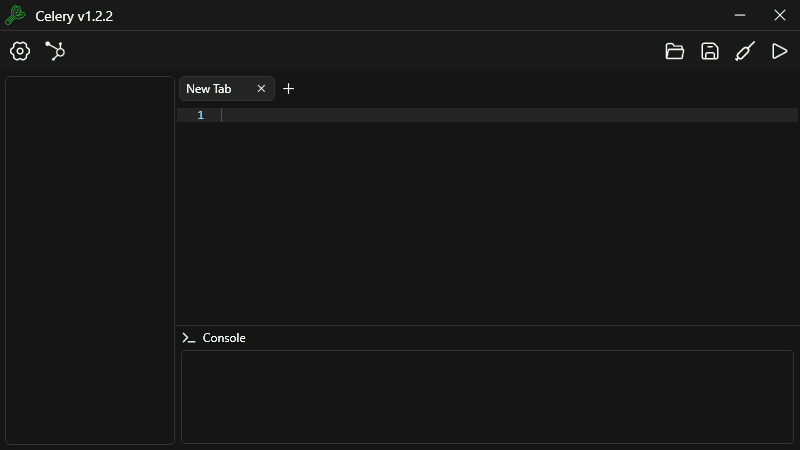
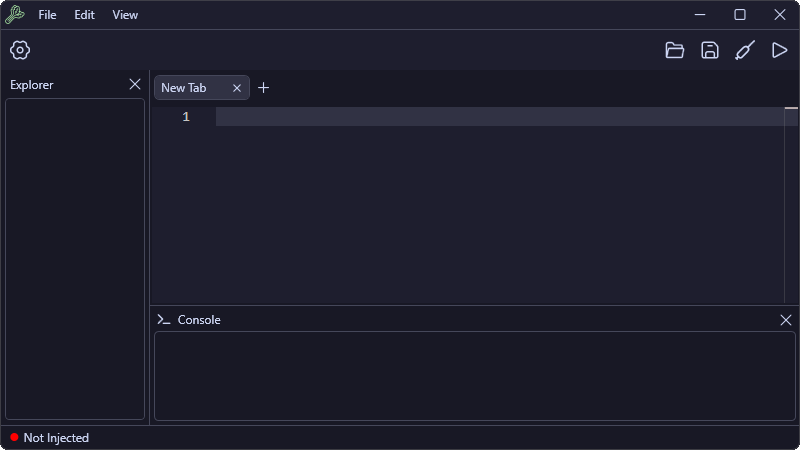
Changed README.md

diff --git a/README.md b/README.md
@@ -18,58 +18,23 @@
 * Download the [latest release](https://github.com/sten-code/Celery/releases/latest) and extract it to a folder with [WinRar](https://win-rar.com) or any other unzip program.
 * Run `Celery.exe`
 
-<h1 align="center">Getting Started</h1>
-
-* Open [Roblox](https://www.microsoft.com/store/productId/9NBLGGGZM6WM) from the Microsoft Store and join a game. 
-    * Make sure you aren't using the web version as it's not supported by Celery.
-* Click the inject button, its an icon that looks like a syringe.
-* Wait a couple of seconds and it should say "Celery Loaded" in the top left of Roblox
-    * If it doesn't, there might be an issue with your antivirus.
-* Search for a script that is fitted for the game you are currently in and paste the script inside the text box within Celery.
-    * Please use reputable scripts, it's possible to get hacked yourself if you aren't careful with what you do.
-* Click the execute button which is a play icon.
-
-<h1 align="center">Settings</h1>
-
-## Topmost
-Enabling Topmost allows Celery to be on top of all other programs, it can only be minimized by pressing the minimize button.
-
-## Auto Attach
-Auto Attach will inject Celery the moment you open Roblox or Celery itself.
-
-## Startup Animation
-If enabled there will be an animation of 3.5 seconds when you start Celery.
-
-## Debugging Mode
-Debugging Mode will give you way more information inside the console.
-
-## Theme
-The current theme that is applied, click [here](#themetutorial) if you want to create your own theme.
-
-## Save Tabs
-If enabled, the tabs will save when Celery is closed, is restarted after changing themes and every x amount of seconds where x is the amount set by the Save Tabs Delay setting.
-
-## Save Tabs Delay
-The delay between each save of the tabs.
-
-
 <a name="themetutorial"></a><h1 align="center">Create your own theme</h1>
 
 - Go to `%appdata%\Celery\Themes`, you can do this by pressing `Windows Key + R` and typing `%appdata%\Celery\Themes`
-- Create a new file and name it whatever you want but make sure you have the file extension as `.xaml`
+- Create a new file and n ame it whateveryou want but make sure you have the file extension as `.xaml`
   - To set the file extension you will have to click on `View` at the top bar of file explorer and enable `File name extensions`. After that you can create a file and it will allow you to change the file extension.
 - Open the file with notepad or any other text editor of you liking and paste the following text:
 ```xaml
 <ResourceDictionary xmlns="http://schemas.microsoft.com/winfx/2006/xaml/presentation"
                     xmlns:x="http://schemas.microsoft.com/winfx/2006/xaml">
-    <Color x:Key="BackgroundColor">#151515</Color>
-    <Color x:Key="LightBackgroundColor">#191919</Color>
-    <Color x:Key="HighlightColor">#252525</Color>
-    <Color x:Key="BorderColor">#333333</Color>
-    <Color x:Key="LightBorderColor">#4d4d4d</Color>
-    <Color x:Key="DarkForegroundColor">#c6ccc7</Color>
-    <Color x:Key="ForegroundColor">#f3fcf4</Color>
-    <Color x:Key="LogoColor">#25a732</Color>
+    <Color x:Key="BackgroundColor">#181825</Color>
+    <Color x:Key="LightBackgroundColor">#1e1e2e</Color>
+    <Color x:Key="HighlightColor">#313244</Color>
+    <Color x:Key="BorderColor">#45475a</Color>
+    <Color x:Key="LightBorderColor">#585b70</Color>
+    <Color x:Key="DarkForegroundColor">#bac2de</Color>
+    <Color x:Key="ForegroundColor">#cdd6f4</Color>
+    <Color x:Key="LogoColor">#a6e3a1</Color>
 
     <SolidColorBrush x:Key="BackgroundBrush" Color="{StaticResource BackgroundColor}"/>
     <SolidColorBrush x:Key="LightBackgroundBrush" Color="{StaticResource LightBackgroundColor}"/>
